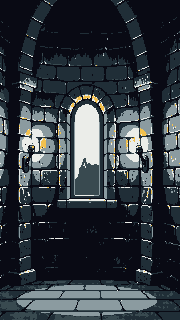
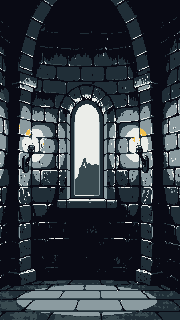
Art: ink Tower plate, gold only on the torch flames (0 gens)
Claude-Session: https://claude.ai/code/session_019ETFw1Uj2cByEfEuTF2CxM

diff --git a/docs/art/ink-style.md b/docs/art/ink-style.md
@@ -23,4 +23,4 @@ Notes: the hero and foe keep a thin lighter outline in some tries (the alt versi
 ## Tower pieces (24 November, 6 generations: 4 announced + 2 for a second try of the plate)
 - `art/pixellab-ink/final/ink_wideframe.png` (160 x 96, transparent outside): a wide brush-ink panel frame in the style of `ink_frame.png`, for text-heavy screens (menu, start, run end, marks); white paper inside with a black dry-brush border and a red corner. Nine-slice insets about 14 / 14 / 14 / 14 px. `alt_ink_wideframe.png` is the first try, which came out black inside.
 - `art/pixellab-ink/final/ink_tower_band1.png` (180 x 320, same as `assets/visuals/tower/tower_band1.png`): the sample painted ink plate; `alt_ink_tower_band1.png` is the other try (lit window, no gold torches). Sheet: `docs/art/boards/ink-tower-band1.png` (original, the two plates).
-- Honest: PixelLab keeps the plate's structure, so at an init strength of 230 the result stayed brown and orange (not ink); at 100 it still did. The plates shown are the second try with a palette snap to five greys (gold kept on the torch flames only), by `art/pixellab-styles/post.py`. So the sample is a painted plate redrawn by PixelLab, then snapped to ink greys: closer to a luminance recolour than to a true ink painting, with the stone and the shapes redrawn.
+- Honest: PixelLab keeps the plate's structure, so at an init strength of 230 the result stayed brown and orange (not ink); at 100 it still did. The plates shown are the second try with a palette snap to five greys (gold kept on the torch flames only), by `art/pixellab-styles/post.py`; a second pass (24 November) snapped the gold specks on the window arch and the walls to the neighbouring greys, so gold stays only on the two flames. So the sample is a painted plate redrawn by PixelLab, then snapped to ink greys: closer to a luminance recolour than to a true ink painting, with the stone and the shapes redrawn.
